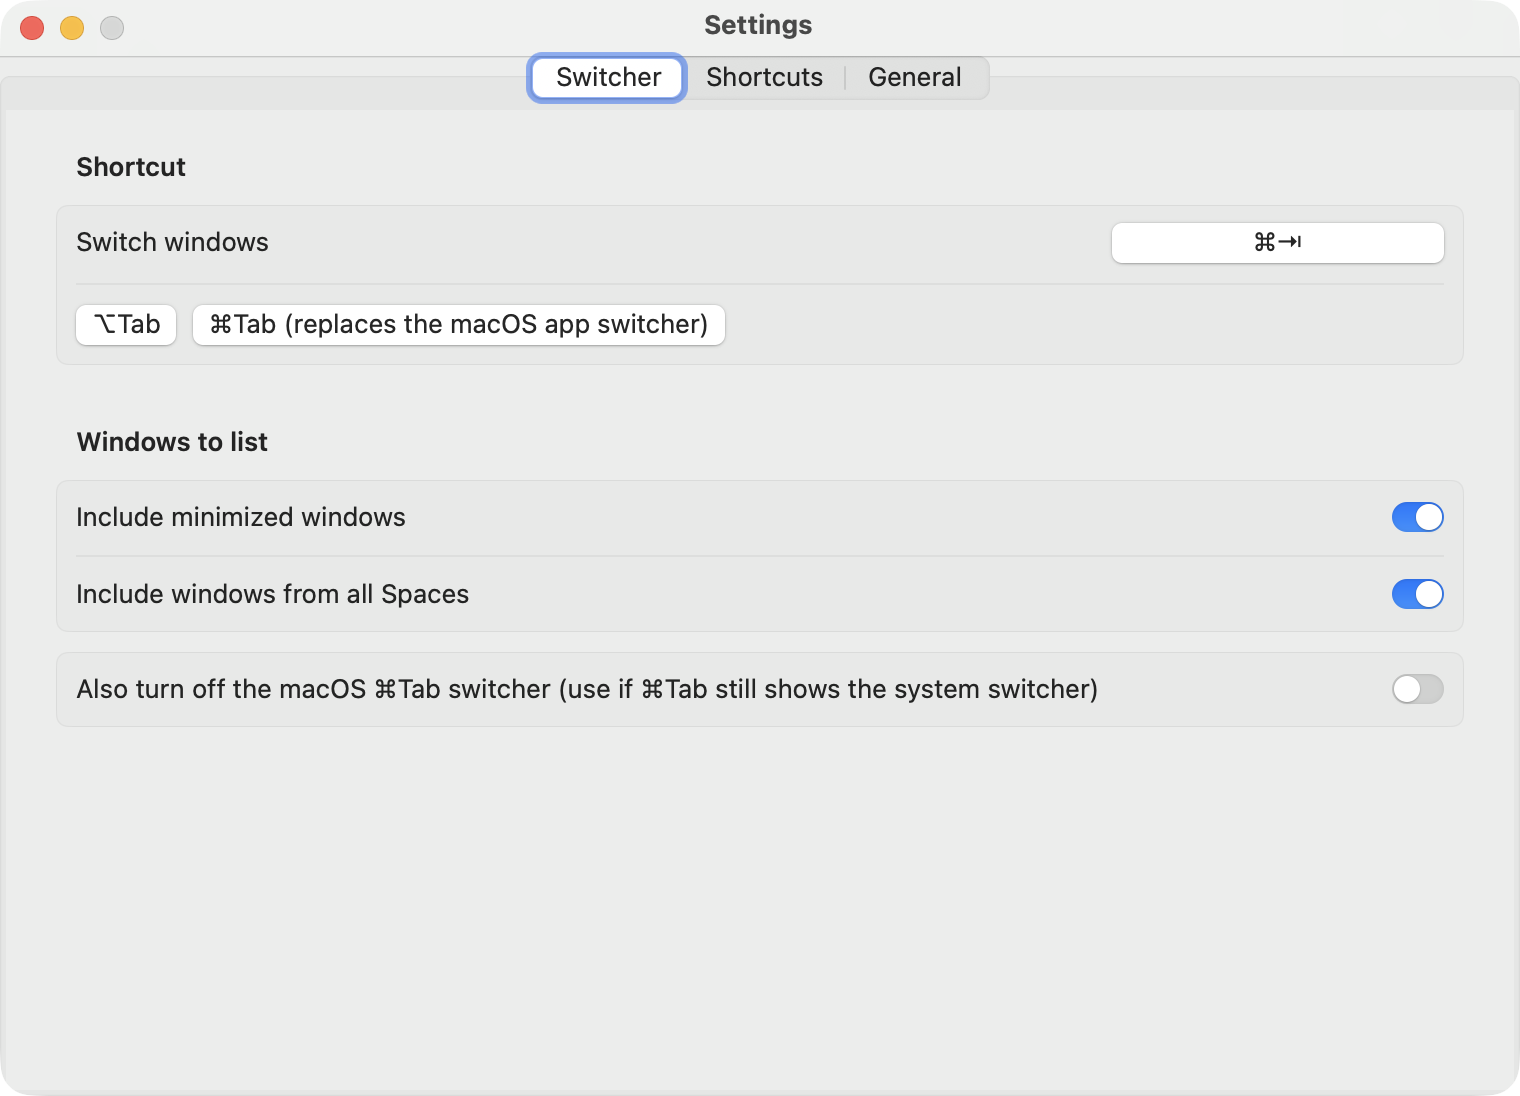
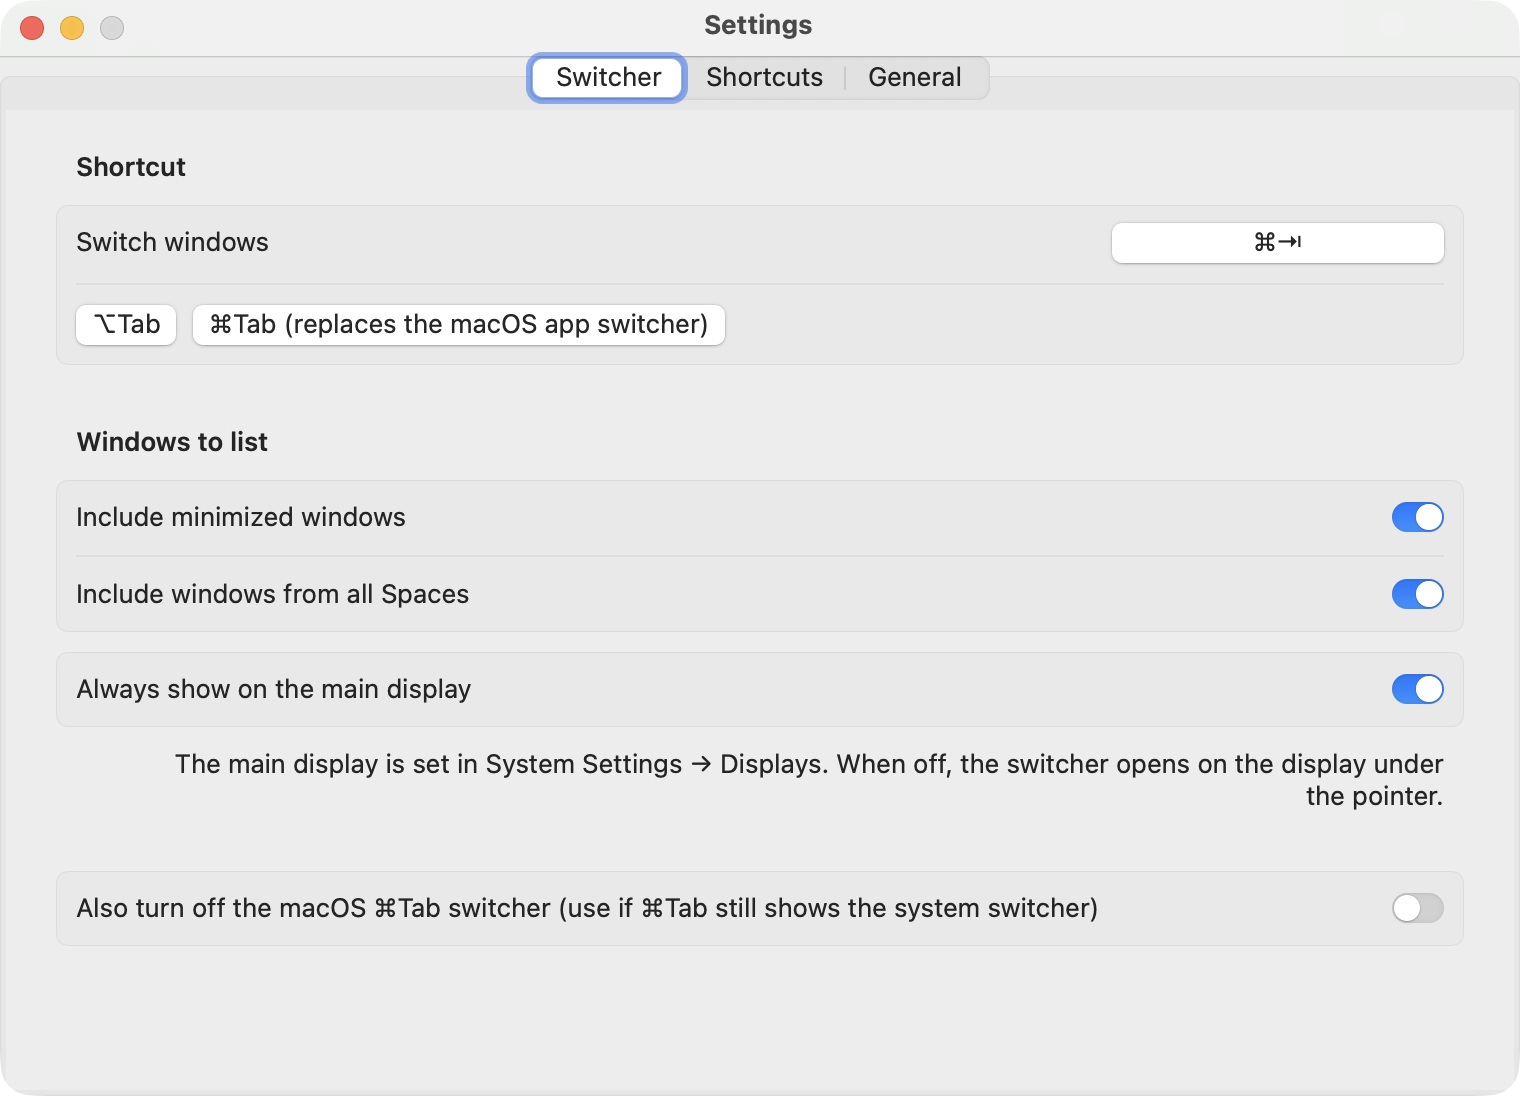
List the settings window in the switcher and add a main display option
WindowFlow's own windows are read and raised through AppKit, since
Accessibility calls into the app's own process from the main thread would block.
A new switcher setting always opens the panel on the main display instead of the
display under the pointer. Screenshots refreshed.

diff --git a/Sources/WindowFlow/WindowCatalog.swift b/Sources/WindowFlow/WindowCatalog.swift
@@ -137,7 +137,21 @@ final class WindowCatalog {
         }
     }
 
+    /// WindowFlow's own titled windows (Settings). They are read through AppKit: Accessibility calls into our own
+    /// process from the main thread would block on the main thread itself.
+    static func ownWindows() -> [NSWindow] {
+        NSApp.windows.filter { !($0 is NSPanel) && $0.styleMask.contains(.titled) && ($0.isVisible || $0.isMiniaturized) }
+    }
+
+    // windowNumber is -1 for a window that has never been on screen, so every conversion must be checked.
+    func ownWindowBecameKey(_ window: NSWindow) {
+        if let id = UInt32(exactly: window.windowNumber), id != 0 { mru.touch(id) }
+    }
+
     private func currentFocus() -> Focus {
+        if NSWorkspace.shared.frontmostApplication?.processIdentifier == getpid() {
+            return NSApp.keyWindow.flatMap { UInt32(exactly: $0.windowNumber) }.map { .window($0) } ?? .none
+        }
         guard let front = NSWorkspace.shared.frontmostApplication, apps[front.processIdentifier] != nil else { return .none }
         let pid = front.processIdentifier
         if unresponsive.contains(pid) { return .unreachable(pid) }
@@ -199,6 +213,14 @@ final class WindowCatalog {
             }
         }
         for (pid, id) in dead { remove(id: id, pid: pid) }
+        for window in Self.ownWindows() {
+            guard let id = UInt32(exactly: window.windowNumber), id != 0 else { continue }
+            let minimized = window.isMiniaturized
+            if minimized && !includeMinimized { continue }
+            if !allSpaces && !minimized && !window.isOnActiveSpace { continue }
+            entries[id] = WindowEntry(id: id, pid: getpid(), element: AXUIElementCreateApplication(getpid()),
+                                      appName: "WindowFlow", title: window.title, isMinimized: minimized)
+        }
         let ordered = SwitcherOrdering.order(Array(entries.keys.sorted()), mru: mru, zOrder: list.zOrder).compactMap { entries[$0] }
         let focus = currentFocus()
         let items = items(from: ordered, list: list, focus: focus)

diff --git a/Sources/WindowFlow/WindowFocus.swift b/Sources/WindowFlow/WindowFocus.swift
@@ -18,7 +18,8 @@ enum WindowFocus {
     // when that path was used, since makeKey needs it.
     private static func bringToFront(_ entry: WindowEntry) -> PrivateAPI.PSN? {
         if entry.isMinimized {
-            AXUIElementSetAttributeValue(entry.element, kAXMinimizedAttribute as CFString, kCFBooleanFalse)
+            if let own = ownWindow(entry) { own.deminiaturize(nil) }
+            else { AXUIElementSetAttributeValue(entry.element, kAXMinimizedAttribute as CFString, kCFBooleanFalse) }
         }
         let app = NSRunningApplication(processIdentifier: entry.pid)
         if app?.isHidden == true { app?.unhide() }
@@ -49,11 +50,25 @@ enum WindowFocus {
                 bytes[0x08] = kind
                 _ = post(&psn, &bytes)
             }
-            AXUIElementPerformAction(entry.element, kAXRaiseAction as CFString)
+            if let own = ownWindow(entry) { raiseOwn(own) } else { AXUIElementPerformAction(entry.element, kAXRaiseAction as CFString) }
+        } else if let own = ownWindow(entry) {
+            raiseOwn(own)
         } else {
             AXUIElementPerformAction(entry.element, kAXRaiseAction as CFString)
             AXUIElementSetAttributeValue(entry.element, kAXMainAttribute as CFString, kCFBooleanTrue)
         }
+    }
+
+    // Our own windows are driven through AppKit; an AX call into this process from main would block on itself.
+    private static func ownWindow(_ entry: WindowEntry) -> NSWindow? {
+        guard entry.pid == getpid() else { return nil }
+        return NSApp.windows.first { $0.windowNumber == Int(entry.id) }
+    }
+
+    private static func raiseOwn(_ window: NSWindow) {
+        NSApp.activate()
+        window.makeKeyAndOrderFront(nil)
+        window.orderFrontRegardless()
     }
 
 }

diff --git a/Sources/WindowFlow/SettingsTabs.swift b/Sources/WindowFlow/SettingsTabs.swift
@@ -44,6 +44,13 @@ struct SwitcherTab: View {
                     get: { settings.allSpaces }, set: { settings.allSpaces = $0 }))
             }
             Section {
+                Toggle(tr("Always show on the main display", "Luôn hiện ở màn hình chính"), isOn: Binding(
+                    get: { settings.switcherOnMainDisplay }, set: { settings.switcherOnMainDisplay = $0 }))
+            } footer: {
+                Text(tr("The main display is set in System Settings → Displays. When off, the switcher opens on the display under the pointer.",
+                        "Màn hình chính chọn trong Cài đặt hệ thống → Màn hình. Khi tắt, bảng chuyển cửa sổ hiện ở màn hình đang có con trỏ chuột."))
+            }
+            Section {
                 Toggle(
                     tr("Also turn off the macOS ⌘Tab switcher (use if ⌘Tab still shows the system switcher)",
                        "Tắt luôn bộ chuyển app ⌘Tab của macOS (dùng nếu ⌘Tab vẫn hiện bộ chuyển của hệ thống)"),

diff --git a/Sources/WindowFlow/Settings.swift b/Sources/WindowFlow/Settings.swift
@@ -77,6 +77,12 @@ final class Settings: ObservableObject {
         set { objectWillChange.send(); defaults.set(newValue, forKey: Key.allSpaces) }
     }
 
+    /// Off: the switcher opens on the display under the pointer.
+    var switcherOnMainDisplay: Bool {
+        get { defaults.bool(forKey: Key.switcherOnMainDisplay) }
+        set { objectWillChange.send(); defaults.set(newValue, forKey: Key.switcherOnMainDisplay) }
+    }
+
     var disableSystemCommandTab: Bool {
         get { SystemSwitcherHotKey.fallbackEnabled }
         set { objectWillChange.send(); SystemSwitcherHotKey.fallbackEnabled = newValue }
@@ -89,5 +95,6 @@ final class Settings: ObservableObject {
         static let gap = "gap"
         static let includeMinimized = "includeMinimized"
         static let allSpaces = "allSpaces"
+        static let switcherOnMainDisplay = "switcherOnMainDisplay"
     }
 }

diff --git a/Sources/WindowFlow/SwitcherPanel.swift b/Sources/WindowFlow/SwitcherPanel.swift
@@ -41,8 +41,8 @@ final class SwitcherPanel {
 
     var isVisible: Bool { panel.isVisible }
 
-    func show(_ entries: [SwitcherItem], selected: Int) {
-        guard !entries.isEmpty, let screen = pointerScreen() else { return }
+    func show(_ entries: [SwitcherItem], selected: Int, onMainDisplay: Bool) {
+        guard !entries.isEmpty, let screen = onMainDisplay ? NSScreen.screens.first : pointerScreen() else { return }
         let pad = Self.padding, spacing = Self.spacing, tile = Self.tile
         let fitColumns = SwitcherGrid.fit(extent: screen.frame.width * 0.8, item: tile.width, spacing: spacing, padding: pad)
         let fitRows = SwitcherGrid.fit(extent: screen.frame.height * 0.8, item: tile.height, spacing: spacing, padding: pad)

diff --git a/Sources/WindowFlow/AppDelegate.swift b/Sources/WindowFlow/AppDelegate.swift
@@ -172,6 +172,10 @@ final class AppDelegate: NSObject, NSApplicationDelegate, NSMenuDelegate, NSWind
         }
     }
 
+    func windowDidBecomeKey(_ notification: Notification) {
+        if let window = notification.object as? NSWindow, window === settingsWindow { catalog.ownWindowBecameKey(window) }
+    }
+
     func windowDidResignKey(_ notification: Notification) {
         if notification.object as? NSWindow === settingsWindow { recorder.cancel() }
     }

diff --git a/Sources/WindowFlow/SwitcherController.swift b/Sources/WindowFlow/SwitcherController.swift
@@ -108,7 +108,7 @@ final class SwitcherController: SwitcherKeyHandling {
         lock.unlock()
         guard held else { reconcile(); return }
         shown = true
-        panel.show(entries, selected: index)
+        panel.show(entries, selected: index, onMainDisplay: settings.switcherOnMainDisplay)
         startWatchdog()
     }
 

diff --git a/README.md b/README.md
@@ -11,6 +11,8 @@
 - **Alt-Tab for windows**: hold ⌥ Option and press Tab to pick any window, not just any app. The list covers every
   Space and minimized windows, shows the app icon and window title, and is ordered by recent use. A quick tap
   toggles between the last two windows without showing the list.
+- **Pick the display**: the switcher opens on the display under the pointer, or always on the main display if you
+  prefer.
 - **Replace ⌘Tab**: one click makes ⌘Tab open WindowFlow instead of the macOS app switcher, or record any other
   shortcut.
 - **Window groups**: windows that together fill a display, for example two halves or four quarters, show up as one
